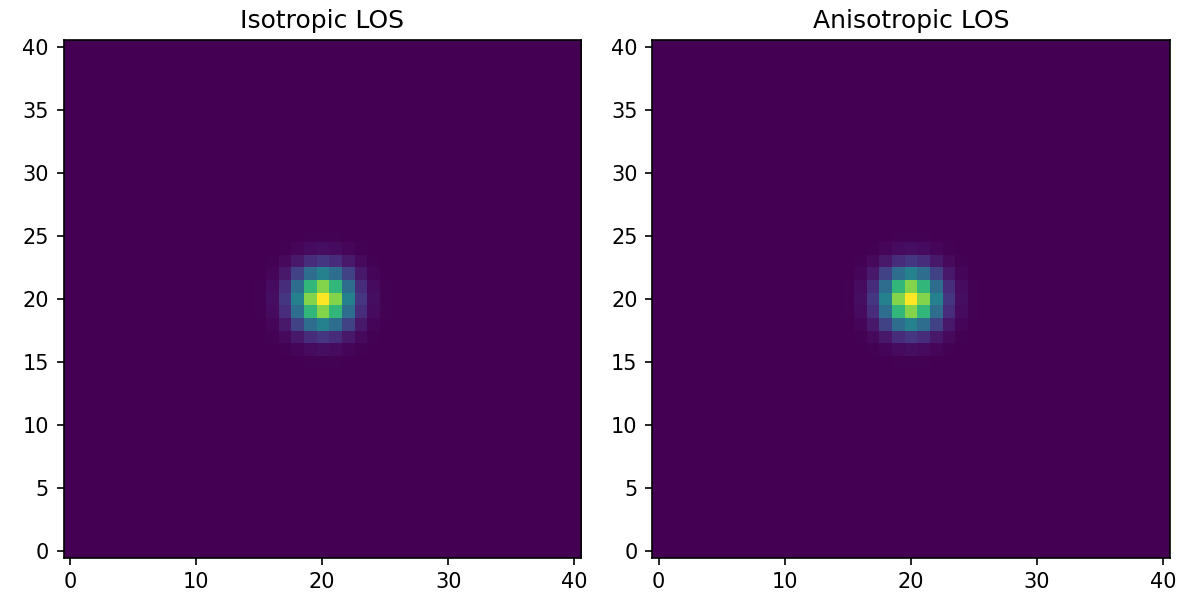
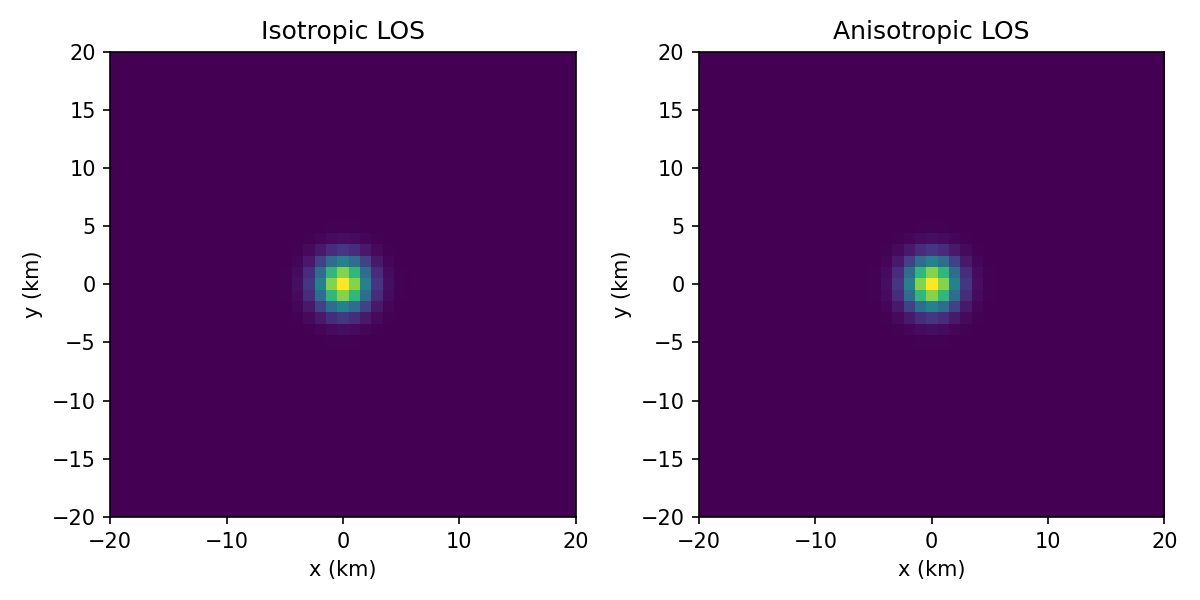
complete

diff --git a/main.py b/main.py
@@ -31,7 +31,7 @@ def run_1d_demo(out_dir: Path) -> None:
     plt.figure()
     plt.plot(x, n_num, label="Numerical")
     plt.plot(x, n_exact, "--", label="Analytical")
-    plt.xlabel("x")
+    plt.xlabel("x (km)")
     plt.ylabel("n(x, t)")
     plt.title("1D Diffusion: Numerical vs Analytical")
     plt.legend()
@@ -98,30 +98,42 @@ def run_3d_demo(out_dir: Path) -> None:
     vmin = min(image_iso.min(), image_aniso.min())
     vmax = max(image_iso.max(), image_aniso.max())
 
+    extent = [x.min(), x.max(), y.min(), y.max()]
+
     plt.figure(figsize=(8, 4))
     plt.subplot(1, 2, 1)
-    plt.imshow(image_iso, origin="lower", cmap="viridis", vmin=vmin, vmax=vmax)
+    plt.imshow(image_iso, origin="lower", cmap="viridis", vmin=vmin, vmax=vmax, extent=extent)
     plt.title("Isotropic LOS")
+    plt.xlabel("x (km)")
+    plt.ylabel("y (km)")
     plt.subplot(1, 2, 2)
-    plt.imshow(image_aniso, origin="lower", cmap="viridis", vmin=vmin, vmax=vmax)
+    plt.imshow(image_aniso, origin="lower", cmap="viridis", vmin=vmin, vmax=vmax, extent=extent)
     plt.title("Anisotropic LOS")
+    plt.xlabel("x (km)")
+    plt.ylabel("y (km)")
     plt.tight_layout()
     plt.savefig(out_dir / "diffusion_3d_los_compare.png", dpi=150)
 
     plt.figure(figsize=(8, 4))
     plt.subplot(1, 2, 1)
-    plt.imshow(err_iso, origin="lower", cmap="coolwarm")
+    plt.imshow(err_iso, origin="lower", cmap="coolwarm", extent=extent)
     plt.title("Isotropic Error")
+    plt.xlabel("x (km)")
+    plt.ylabel("y (km)")
     plt.subplot(1, 2, 2)
-    plt.imshow(err_aniso, origin="lower", cmap="coolwarm")
+    plt.imshow(err_aniso, origin="lower", cmap="coolwarm", extent=extent)
     plt.title("Anisotropic Error")
+    plt.xlabel("x (km)")
+    plt.ylabel("y (km)")
     plt.tight_layout()
     plt.savefig(out_dir / "diffusion_3d_los_error.png", dpi=150)
 
     plt.figure()
-    plt.imshow(analytic, origin="lower", cmap="viridis")
+    plt.imshow(analytic, origin="lower", cmap="viridis", extent=extent)
     plt.colorbar(label="Integrated density")
     plt.title("Analytical LOS (2D Gaussian)")
+    plt.xlabel("x (km)")
+    plt.ylabel("y (km)")
     plt.tight_layout()
     plt.savefig(out_dir / "diffusion_3d_los_analytic.png", dpi=150)
     plt.show()
@@ -166,9 +178,11 @@ def run_parameter_study(out_dir: Path) -> None:
         np.save(out_dir / f"diffusion_3d_los_alt_{alt_km}km.npy", image)
 
         plt.figure()
-        plt.imshow(image, origin="lower", cmap="viridis")
+        plt.imshow(image, origin="lower", cmap="viridis", extent=extent)
         plt.colorbar(label="Integrated density")
         plt.title(f"LOS Density (Alt {alt_km} km)")
+        plt.xlabel("x (km)")
+        plt.ylabel("y (km)")
         plt.tight_layout()
         plt.savefig(out_dir / f"diffusion_3d_los_alt_{alt_km}km.png", dpi=150)
         plt.close()
